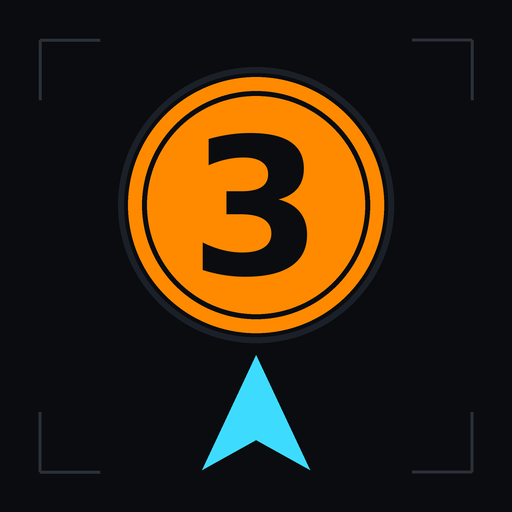
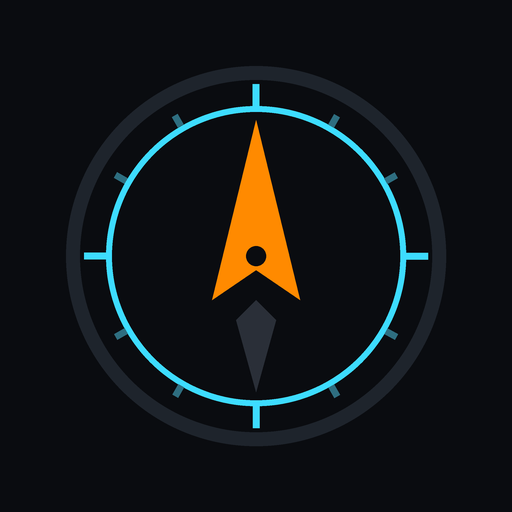
Иконка-компас, заставка при запуске и приветствие голосом
Claude-Session: https://claude.ai/code/session_01Spgtff4KgvtcdsJKvNcAX9

diff --git a/app/src/main/java/ru/shturman/ui/SplashOverlay.kt b/app/src/main/java/ru/shturman/ui/SplashOverlay.kt
@@ -1,0 +1,123 @@
+package ru.shturman.ui
+
+import androidx.compose.animation.core.Animatable
+import androidx.compose.animation.core.CubicBezierEasing
+import androidx.compose.animation.core.tween
+import androidx.compose.foundation.Canvas
+import androidx.compose.foundation.background
+import androidx.compose.foundation.layout.Box
+import androidx.compose.foundation.layout.fillMaxSize
+import androidx.compose.foundation.layout.padding
+import androidx.compose.material3.Text
+import androidx.compose.runtime.Composable
+import androidx.compose.runtime.LaunchedEffect
+import androidx.compose.runtime.remember
+import androidx.compose.ui.Alignment
+import androidx.compose.ui.Modifier
+import androidx.compose.ui.draw.alpha
+import androidx.compose.ui.geometry.Offset
+import androidx.compose.ui.geometry.Size
+import androidx.compose.ui.graphics.Color
+import androidx.compose.ui.graphics.Path
+import androidx.compose.ui.graphics.StrokeCap
+import androidx.compose.ui.graphics.drawscope.Stroke
+import androidx.compose.ui.graphics.drawscope.rotate
+import androidx.compose.ui.text.TextStyle
+import androidx.compose.ui.text.font.FontWeight
+import androidx.compose.ui.unit.dp
+import androidx.compose.ui.unit.sp
+import kotlin.math.PI
+import kotlin.math.cos
+import kotlin.math.min
+import kotlin.math.sin
+
+/**
+ * Заставка при запуске: кольцо компаса собирается, оранжевая стрелка делает оборот и встаёт на север,
+ * проявляется название. Играет около 2,6 секунды, потом плавно гаснет.
+ */
+@Composable
+fun SplashOverlay(onFinished: () -> Unit) {
+    val progress = remember { Animatable(0f) }
+    val fade = remember { Animatable(1f) }
+
+    LaunchedEffect(Unit) {
+        progress.animateTo(1f, tween(2300, easing = CubicBezierEasing(0.22f, 0.8f, 0.3f, 1f)))
+        fade.animateTo(0f, tween(350))
+        onFinished()
+    }
+
+    val p = progress.value
+    Box(
+        modifier = Modifier
+            .fillMaxSize()
+            .alpha(fade.value)
+            .background(Color(0xFF0A0C10)),
+        contentAlignment = Alignment.Center
+    ) {
+        Canvas(modifier = Modifier.fillMaxSize()) {
+            val c = Offset(size.width / 2, size.height * 0.42f)
+            val r = min(size.width, size.height) * 0.26f * (0.7f + 0.3f * p)
+            val cyan = Color(0xFF3DDCFF)
+            val orange = Color(0xFFFF8A00)
+
+            // внешнее тёмное кольцо и голубое кольцо, которое рисуется по дуге
+            drawCircle(Color(0xFF1E242C).copy(alpha = p), radius = r * 1.27f, center = c, style = Stroke(width = r * 0.09f))
+            drawArc(
+                color = cyan,
+                startAngle = -90f,
+                sweepAngle = 360f * min(1f, p * 1.4f),
+                useCenter = false,
+                topLeft = Offset(c.x - r, c.y - r),
+                size = Size(r * 2, r * 2),
+                style = Stroke(width = r * 0.04f, cap = StrokeCap.Round)
+            )
+            // деления
+            if (p > 0.35f) {
+                val a = ((p - 0.35f) / 0.4f).coerceIn(0f, 1f)
+                for (deg in 0 until 360 step 30) {
+                    val big = deg % 90 == 0
+                    val r2 = if (big) r * 1.15f else r * 1.08f
+                    val rad = deg * PI / 180
+                    drawLine(
+                        color = (if (big) cyan else Color(0xFF2E6E80)).copy(alpha = a),
+                        start = Offset(c.x + (r * sin(rad)).toFloat(), c.y - (r * cos(rad)).toFloat()),
+                        end = Offset(c.x + (r2 * sin(rad)).toFloat(), c.y - (r2 * cos(rad)).toFloat()),
+                        strokeWidth = r * 0.05f,
+                        cap = StrokeCap.Round
+                    )
+                }
+            }
+            // стрелка: делает оборот и встаёт на север с лёгким покачиванием
+            val spin = (1f - p) * (1f - p) * 720f
+            val wobble = if (p > 0.8f) (sin((p - 0.8f) * 40f) * (1f - p) * 25f) else 0f
+            rotate(degrees = spin + wobble, pivot = c) {
+                val needle = Path().apply {
+                    moveTo(c.x, c.y - r * 0.8f)
+                    lineTo(c.x + r * 0.29f, c.y + r * 0.2f)
+                    lineTo(c.x, c.y)
+                    lineTo(c.x - r * 0.29f, c.y + r * 0.2f)
+                    close()
+                }
+                drawPath(needle, orange.copy(alpha = min(1f, p * 3f)))
+                val tail = Path().apply {
+                    moveTo(c.x, c.y + r * 0.8f)
+                    lineTo(c.x - r * 0.13f, c.y + r * 0.35f)
+                    lineTo(c.x, c.y + r * 0.2f)
+                    lineTo(c.x + r * 0.13f, c.y + r * 0.35f)
+                    close()
+                }
+                drawPath(tail, Color(0xFF2A2F38).copy(alpha = min(1f, p * 3f)))
+            }
+            drawCircle(Color(0xFF0A0C10), radius = r * 0.065f, center = c)
+        }
+        Text(
+            text = "ШТУРМАН",
+            color = Color.White,
+            style = TextStyle(fontSize = 30.sp, fontWeight = FontWeight.Bold, letterSpacing = 10.sp),
+            modifier = Modifier
+                .align(Alignment.BottomCenter)
+                .padding(bottom = 150.dp)
+                .alpha(((p - 0.45f) / 0.4f).coerceIn(0f, 1f))
+        )
+    }
+}

diff --git a/app/src/main/java/ru/shturman/MainActivity.kt b/app/src/main/java/ru/shturman/MainActivity.kt
@@ -14,6 +14,8 @@ import androidx.compose.runtime.getValue
 import androidx.compose.runtime.mutableStateOf
 import androidx.compose.runtime.remember
 import androidx.compose.runtime.rememberCoroutineScope
+import androidx.compose.runtime.saveable.rememberSaveable
+import androidx.compose.foundation.layout.Box
 import androidx.compose.runtime.setValue
 import androidx.compose.ui.platform.LocalContext
 import com.google.firebase.auth.FirebaseAuth
@@ -25,6 +27,7 @@ import ru.shturman.auth.signOut
 import ru.shturman.auth.toInfo
 import ru.shturman.ui.LoginScreen
 import ru.shturman.ui.MainScreen
+import ru.shturman.ui.SplashOverlay
 import ru.shturman.ui.theme.ShturmanTheme
 
 class MainActivity : ComponentActivity() {
@@ -44,6 +47,8 @@ class MainActivity : ComponentActivity() {
             statusBarStyle = SystemBarStyle.dark(Color.TRANSPARENT),
             navigationBarStyle = SystemBarStyle.dark(Color.TRANSPARENT)
         )
+        // Приветствие голосом только при свежем запуске, не при повороте экрана
+        if (savedInstanceState == null) ru.shturman.routing.Welcome(this)
         setContent {
             ShturmanTheme {
                 val context = LocalContext.current
@@ -70,14 +75,18 @@ class MainActivity : ComponentActivity() {
                     )
                 }
 
-                val current = user
-                if (current == null) {
-                    LoginScreen()
-                } else {
-                    MainScreen(
-                        user = current,
-                        onSignOut = { scope.launch { signOut(context) } }
-                    )
+                var showSplash by rememberSaveable { mutableStateOf(true) }
+                Box {
+                    val current = user
+                    if (current == null) {
+                        LoginScreen()
+                    } else {
+                        MainScreen(
+                            user = current,
+                            onSignOut = { scope.launch { signOut(context) } }
+                        )
+                    }
+                    if (showSplash) SplashOverlay(onFinished = { showSplash = false })
                 }
             }
         }

diff --git a/app/src/main/java/ru/shturman/routing/Welcome.kt b/app/src/main/java/ru/shturman/routing/Welcome.kt
@@ -1,0 +1,41 @@
+package ru.shturman.routing
+
+import android.content.Context
+import android.speech.tts.TextToSpeech
+import android.speech.tts.UtteranceProgressListener
+import java.util.Locale
+
+/**
+ * Приветствие при запуске: «Welcome to Verity Airline» спокойным женским голосом.
+ * Используется английский голос телефона; если его нет, приветствие просто пропускается.
+ */
+class Welcome(context: Context) {
+    private var tts: TextToSpeech? = null
+
+    init {
+        tts = TextToSpeech(context.applicationContext) { status ->
+            val engine = tts ?: return@TextToSpeech
+            if (status != TextToSpeech.SUCCESS) { engine.shutdown(); return@TextToSpeech }
+            val result = engine.setLanguage(Locale.US)
+            if (result == TextToSpeech.LANG_MISSING_DATA || result == TextToSpeech.LANG_NOT_SUPPORTED) {
+                engine.shutdown()
+                return@TextToSpeech
+            }
+            runCatching {
+                val voices = engine.voices.filter { it.locale.language == "en" }
+                val best = voices.firstOrNull { it.name.contains("female", true) }
+                    ?: voices.firstOrNull { v -> listOf("-sfg-", "-iob-", "-iog-", "-tpf-").any { v.name.contains(it) } }
+                if (best != null) engine.voice = best
+            }
+            engine.setSpeechRate(0.8f)  // медленно и расслабленно
+            engine.setPitch(1.0f)
+            engine.setOnUtteranceProgressListener(object : UtteranceProgressListener() {
+                override fun onStart(utteranceId: String?) {}
+                override fun onDone(utteranceId: String?) { engine.shutdown() }
+                @Deprecated("Нужен для старых версий Android")
+                override fun onError(utteranceId: String?) { engine.shutdown() }
+            })
+            engine.speak("Welcome to Verity Airline.", TextToSpeech.QUEUE_FLUSH, null, "welcome")
+        }
+    }
+}
